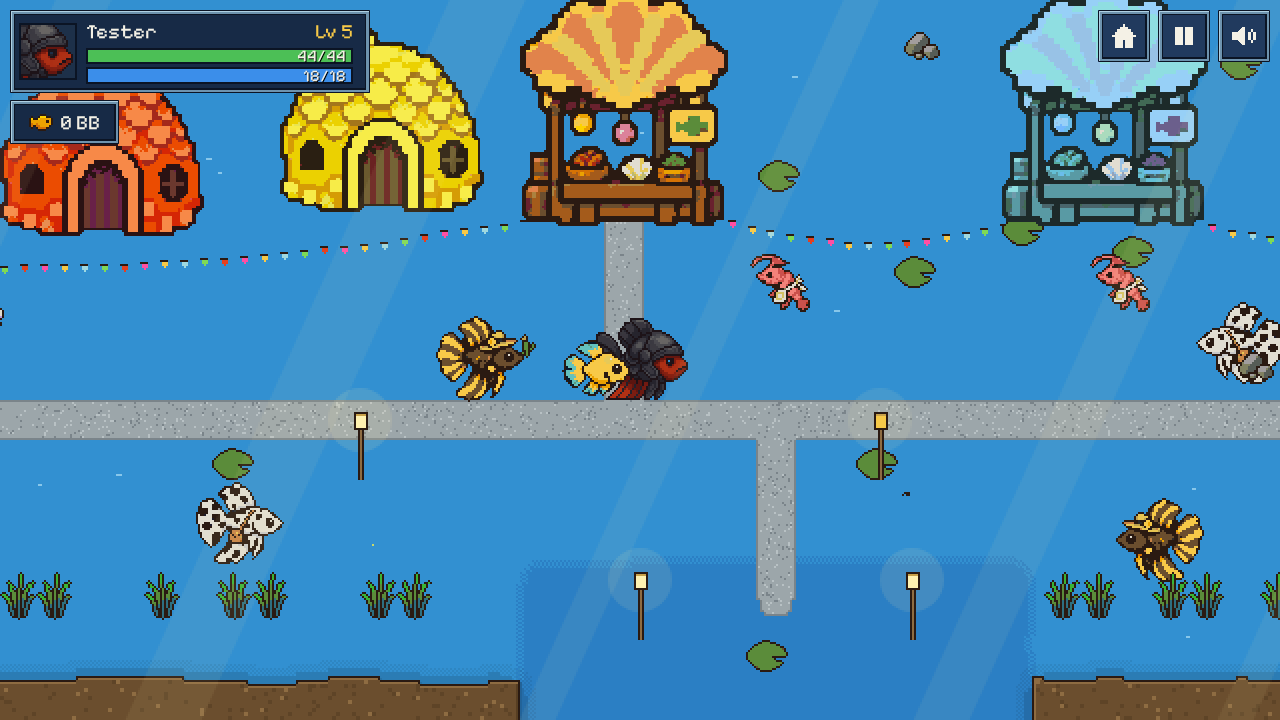
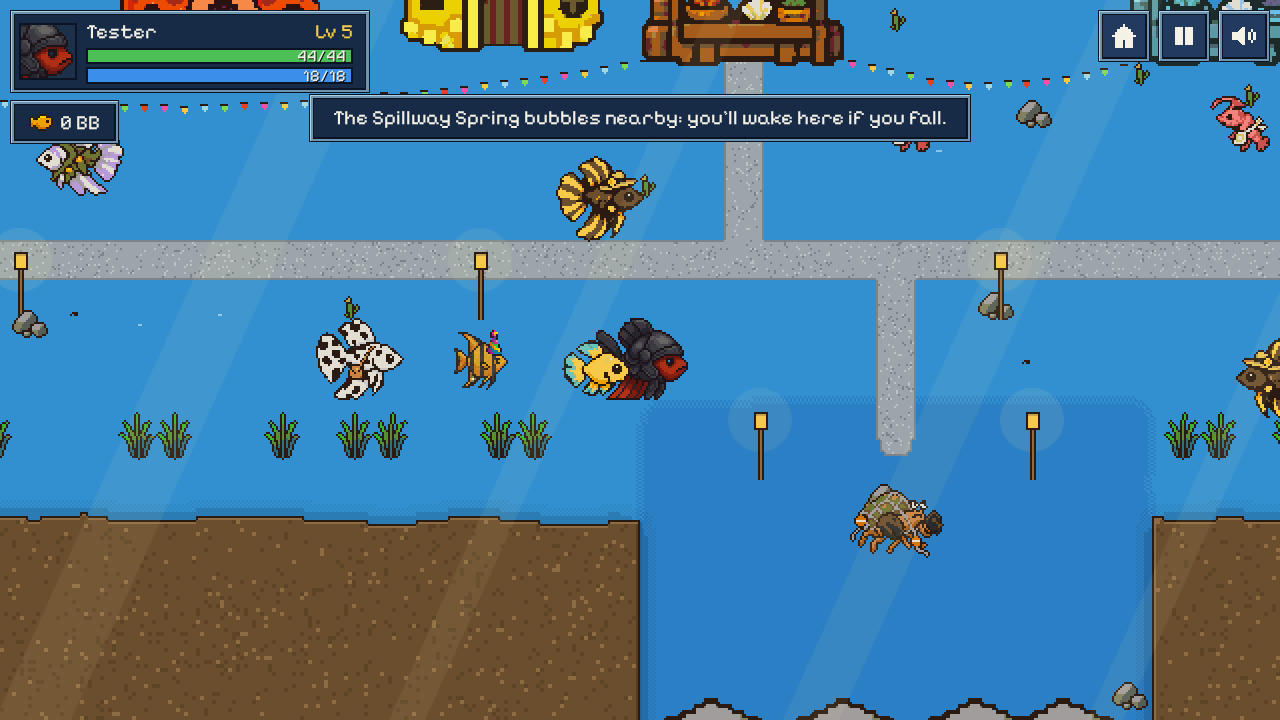
No lily pads in the paddies: removed from every map and the open-water scatter; README map screenshots retaken

diff --git a/game/src/maps.js b/game/src/maps.js
@@ -42,8 +42,8 @@ export const MAPS = {
       { id: 'reef', sprite: 'reef', x: 960, y: 270, face: -1 },
     ],
     props: [
-      { sprite: 'p_lily', x: 360, y: 400 }, { sprite: 'p_lily', x: 690, y: 450 }, { sprite: 'p_stones', x: 330, y: 160 },
-      { sprite: 'p_stones', x: 650, y: 560 }, { sprite: 'p_lily', x: 640, y: 120 }, { sprite: 'p_stem', x: 400, y: 520 },
+      { sprite: 'p_stones', x: 330, y: 160 },
+      { sprite: 'p_stones', x: 650, y: 560 }, { sprite: 'p_stem', x: 400, y: 520 },
     ],
     gates: [
       { id: 'south', rect: [478, 600, 68, 40], openIf: 'metFinn', look: 'weave' },
@@ -81,9 +81,9 @@ export const MAPS = {
     props: [
       { sprite: 'p_stump', x: 1395, y: 770, solid: true, id: 'stump' },
       { sprite: 'p_culvert', x: 66, y: 818, id: 'culvert' },
-      { sprite: 'p_lily', x: 600, y: 180 }, { sprite: 'p_lily', x: 1200, y: 420 }, { sprite: 'p_stones', x: 860, y: 260 },
+      { sprite: 'p_stones', x: 860, y: 260 },
       { sprite: 'p_reeds', x: 300, y: 300 }, { sprite: 'p_reeds', x: 1300, y: 300 }, { sprite: 'p_stem', x: 980, y: 720 },
-      { sprite: 'p_stones', x: 1250, y: 820 }, { sprite: 'p_lily', x: 700, y: 820 },
+      { sprite: 'p_stones', x: 1250, y: 820 }, 
     ],
     gates: [
       { id: 'culvert', rect: [40, 790, 34, 60], openIf: 'lantern', look: 'dark', talk: 'culvertDark' },
@@ -127,7 +127,7 @@ export const MAPS = {
     props: [
       { sprite: 'p_bundle', x: 1180, y: 74, id: 'bundle', solid: true, until: 'trailFound' },
       { sprite: 'p_lip', x: 1180, y: 22 },
-      { sprite: 'p_lily', x: 300, y: 380 }, { sprite: 'p_stones', x: 980, y: 560 }, { sprite: 'p_lily', x: 1100, y: 700 },
+      { sprite: 'p_stones', x: 980, y: 560 },
     ],
     gates: [
       { id: 'bundle', rect: [1110, 40, 140, 60], openIf: 'trailFound', look: 'none', talk: 'bundle' },
@@ -189,7 +189,7 @@ export const MAPS = {
     props: [
       { sprite: 'p_lip', x: 680, y: 780 }, { sprite: 'p_lip', x: 746, y: 780 }, { sprite: 'p_lip', x: 812, y: 780 }, { sprite: 'p_lip', x: 856, y: 780 },
       { sprite: 'p_lip', x: 680, y: 600 }, { sprite: 'p_lip', x: 746, y: 600 }, { sprite: 'p_lip', x: 812, y: 600 }, { sprite: 'p_lip', x: 856, y: 600 },
-      { sprite: 'p_lily', x: 420, y: 120 }, { sprite: 'p_lily', x: 1000, y: 160 }, { sprite: 'p_stones', x: 560, y: 200 },
+      { sprite: 'p_stones', x: 560, y: 200 },
       { sprite: 'p_reeds', x: 330, y: 700 }, { sprite: 'p_reeds', x: 1220, y: 620 },
     ],
     // the Snarl holds the top of the Spillway steps: the rect spans the whole join (x 640-896)

diff --git a/game/src/world.js b/game/src/world.js
@@ -102,10 +102,10 @@ export class World {
         }
       }
     }
-    // lily pads, pebbles and broken stems scattered in the open water
+    // pebbles and broken stems scattered in the open water
     this.scatter = [];
     if (def.bank !== 'concrete') {
-      const kinds = def.dark ? ['p_stem', 'p_stones'] : ['p_lily', 'p_lily', 'p_stones', 'p_stem'];
+      const kinds = def.dark ? ['p_stem', 'p_stones'] : ['p_stones', 'p_stem', 'p_stones', 'p_stem'];
       for (const q of waterSpots(this.terrain, Math.round((def.w * def.h) / (def.dark ? 60000 : 30000)), () => trng.next(), 1, 4)) {
         if (depthAt(this.terrain, q.x, q.y) === 6) continue;
         this.scatter.push({ sprite: kinds[Math.floor(trng.next() * kinds.length)], x: q.x, y: q.y });
@@ -613,7 +613,7 @@ export class World {
       pixelBubble(ctx, r.x, r.y, Math.max(2, Math.round(r.r)), '#CFF4FF');
     }
     ctx.globalAlpha = 1;
-    // floor things: pickups, lily pads under fish
+    // floor things: pickups under fish
     for (const q of this.pickups) this.drawPickup(ctx, q);
     for (const c of this.critters) this.drawCritter(ctx, c, t);
     if (this.def.lanterns) for (const [lx, ly] of this.def.lanterns) this.drawLanternGlow(ctx, lx, ly, t);
@@ -623,7 +623,7 @@ export class World {
     for (const q of this.props) {
       if (q.until && s.flags[q.until]) continue;
       const c = img(q.sprite); if (!c) continue;
-      const flat = q.sprite === 'p_lily' || q.sprite === 'p_lip';
+      const flat = q.sprite === 'p_lip';
       list.push({ y: flat ? -1e6 + q.y : q.y, d: () => {
         if (q.dark) { ctx.filter = 'brightness(0.55)'; }
         ctx.drawImage(c, Math.round(q.x - c.width / 2), Math.round(q.y - c.height));

diff --git a/game/src/assets.js b/game/src/assets.js
@@ -61,7 +61,6 @@ export const MANIFEST = {
   p_rice: [[N + 'props/rice_stalks.png'], null],
   p_riceRow: [[N + 'props/rice_row.png'], null],
   p_reeds: [[N + 'props/reed_clump.png'], { w: 24, h: 25, c: '#5B8C3A' }],
-  p_lily: [[N + 'props/lily_pad.png'], { w: 21, h: 16, c: '#4a8a3a' }],
   p_stones: [[N + 'props/stones.png'], { w: 18, h: 14, c: '#888' }],
   p_stem: [[N + 'props/broken_stem.png'], { w: 8, h: 12, c: '#9a7' }],
   p_bundle: [[N + 'props/straw_bundle.png'], { w: 67, h: 46, c: '#d9b45a' }],

diff --git a/design/GAME_DESIGN.md b/design/GAME_DESIGN.md
@@ -753,7 +753,7 @@ extraction first. Target sizes are art pixels (width unless marked "tall").
 | E1 | Dragonfly Nymph 36, Snapping Crayfish 38 (overworld ×1, battle ×2 from the same native image) | imagegen2 (MK7) | 2 items | yes | code | must |
 | E2 | Party-hat versions of E1, E3 and N4 captives | code: the cut-out kept hat | — | yes | — | must |
 | E3 | Gargantuan Gar boss (refs: prehistoric_gar, betta) | imagegen2 (MK8) | 100×40 (×2 = 200×80 in battle; ×1 in its pool) | yes | code | must |
-| T3 | Props: reed clump 24, lily pad 20, stones 18, broken stem 12 tall, fallen straw bundle 64, culvert mouth 48, spillway step lip 64, Old Stump 48, reed cage closed 40, reed cage open 40 | imagegen2 (MK10a) | 10 items | yes | — | must |
+| T3 | Props: reed clump 24, stones 18, broken stem 12 tall, fallen straw bundle 64, culvert mouth 48, spillway step lip 64, Old Stump 48, reed cage closed 40, reed cage open 40 | imagegen2 (MK10a) | 9 items (lily pad removed in Change 3) | yes | — | must |
 | I1 | Icons: Betta Bite 10, strange scale 12, brass cog 12, glow-moss lantern 14 tall, Kelp Snack 14, Bubble Water 14, Seed Cake 14, Fizzy Water 14 | imagegen2, cheaper model (MK10b) | 8 items | yes | — | must |
 | UI3 | App icon and favicons | code from K1 | 512 + sizes | maskable margin | — | must |
 | UI4 | Social card, GitHub preview | code (title screen) | 1200×630, 1280×640 | no | — | must |
@@ -866,7 +866,7 @@ gives sizes relative to the reference betta and as a grid.
 - **MK9b:** "(1) An old concrete drain gate with a rusty iron grate and three empty cog
   sockets, front view, about 120 big pixels wide; (2) Lock-Keeper Whorl: <look>, about 32 big
   pixels long; (3) Pip: <look>, about 28 big pixels long."
-- **MK10a:** "Ten small props for a rice-paddy map, front 3/4 view, each on its own: reed
+- **MK10a:** (the lily pad it made was removed in Change 3) "Ten small props for a rice-paddy map, front 3/4 view, each on its own: reed
   clump (24 big pixels wide), lily pad (20), stones (18), broken rice stem (12 tall), fallen
   straw bundle (64), culvert mouth (48), spillway step lip (64), the Old Stump, a mossy sunken
   tree stump (48), a woven reed cage closed (40), the same reed cage with its door open (40)."

diff --git a/design/STATUS.md b/design/STATUS.md
@@ -14,6 +14,7 @@
 10. "Does the game have save slotS? There should be more than just one global save"
 11. "publish" (published Change 1 on 2026-11-21)
 12. (issues #1 and #2) "Swim Away can become Flare once you're strong enough. Yes, it's probability based on your level and theirs, so it can flip to Flare as soon as it's at least as likely as you swimming away. No rewards, unless we say they dropped some as they fled. Yes on fail. ... Sure, the fish could swim away on the map too."
+13. `/gamegen --change The rice paddies include lily pads as one of the graphic elements. Let's remove those.`
 
 From: https://github.com/zeveck/bettarpg (zeveck's own repo; renamed to zeveck/bettarpg-original on 2026-11-21 so the remake could take zeveck/bettarpg), remake, leeway lots.
 Original untouched; this is a new folder and repo with fresh history.
@@ -63,6 +64,12 @@ Original untouched; this is a new folder and repo with fresh history.
 - [x] #1: battle UI shown under the transition; layout fallback; checked at 1280×720 and phone 844×390
 - [x] #2: Flare replaces Swim Away when at least as likely; code-drawn fin fan, glow, ripple; fish bolts on the map and drops a Betta Bite; checked in browser (win, fail, map); sim and save tests pass
 - [x] Routes replayed (13/13; full-game passed on a re-run after one unlucky loss in the Ditch); published
+
+## Change 3 (2026-11-22): no lily pads
+
+- [x] Lily pads removed from every map (10 placed by hand in the village, shallows, reedwater and high water, plus the random open-water scatter, now stones and stems) and from the art list; nothing else moved (the scatter draws the same random numbers)
+- [x] Art-only check: all 6 areas at 1280×720 and phone 844×390, no console errors; README village, shallows, high water and phone shots retaken; social card and GitHub preview have no lily pads
+- [ ] Art sheet on the plans page still shows the lily pad: updates on the next publish
 
 ## Phases
 
